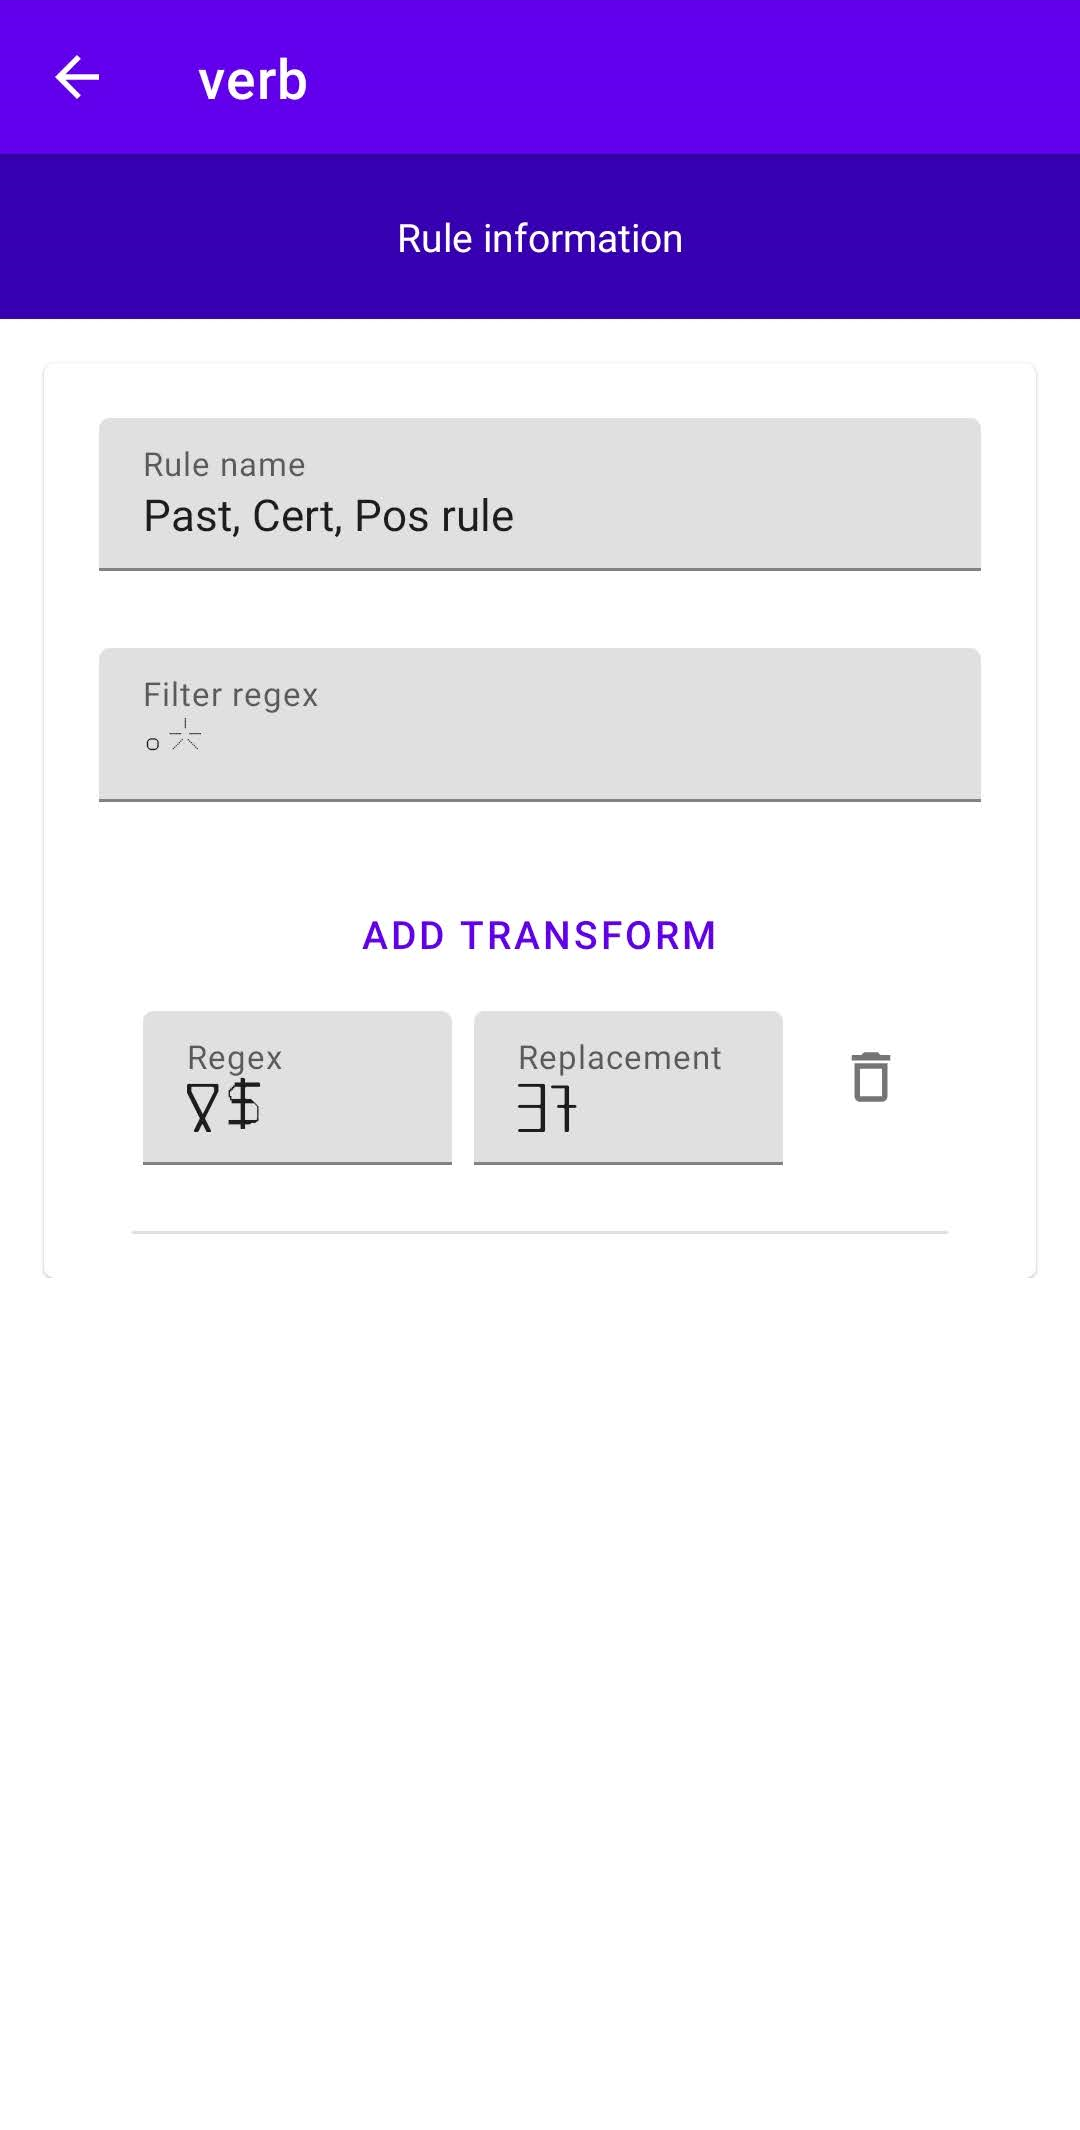
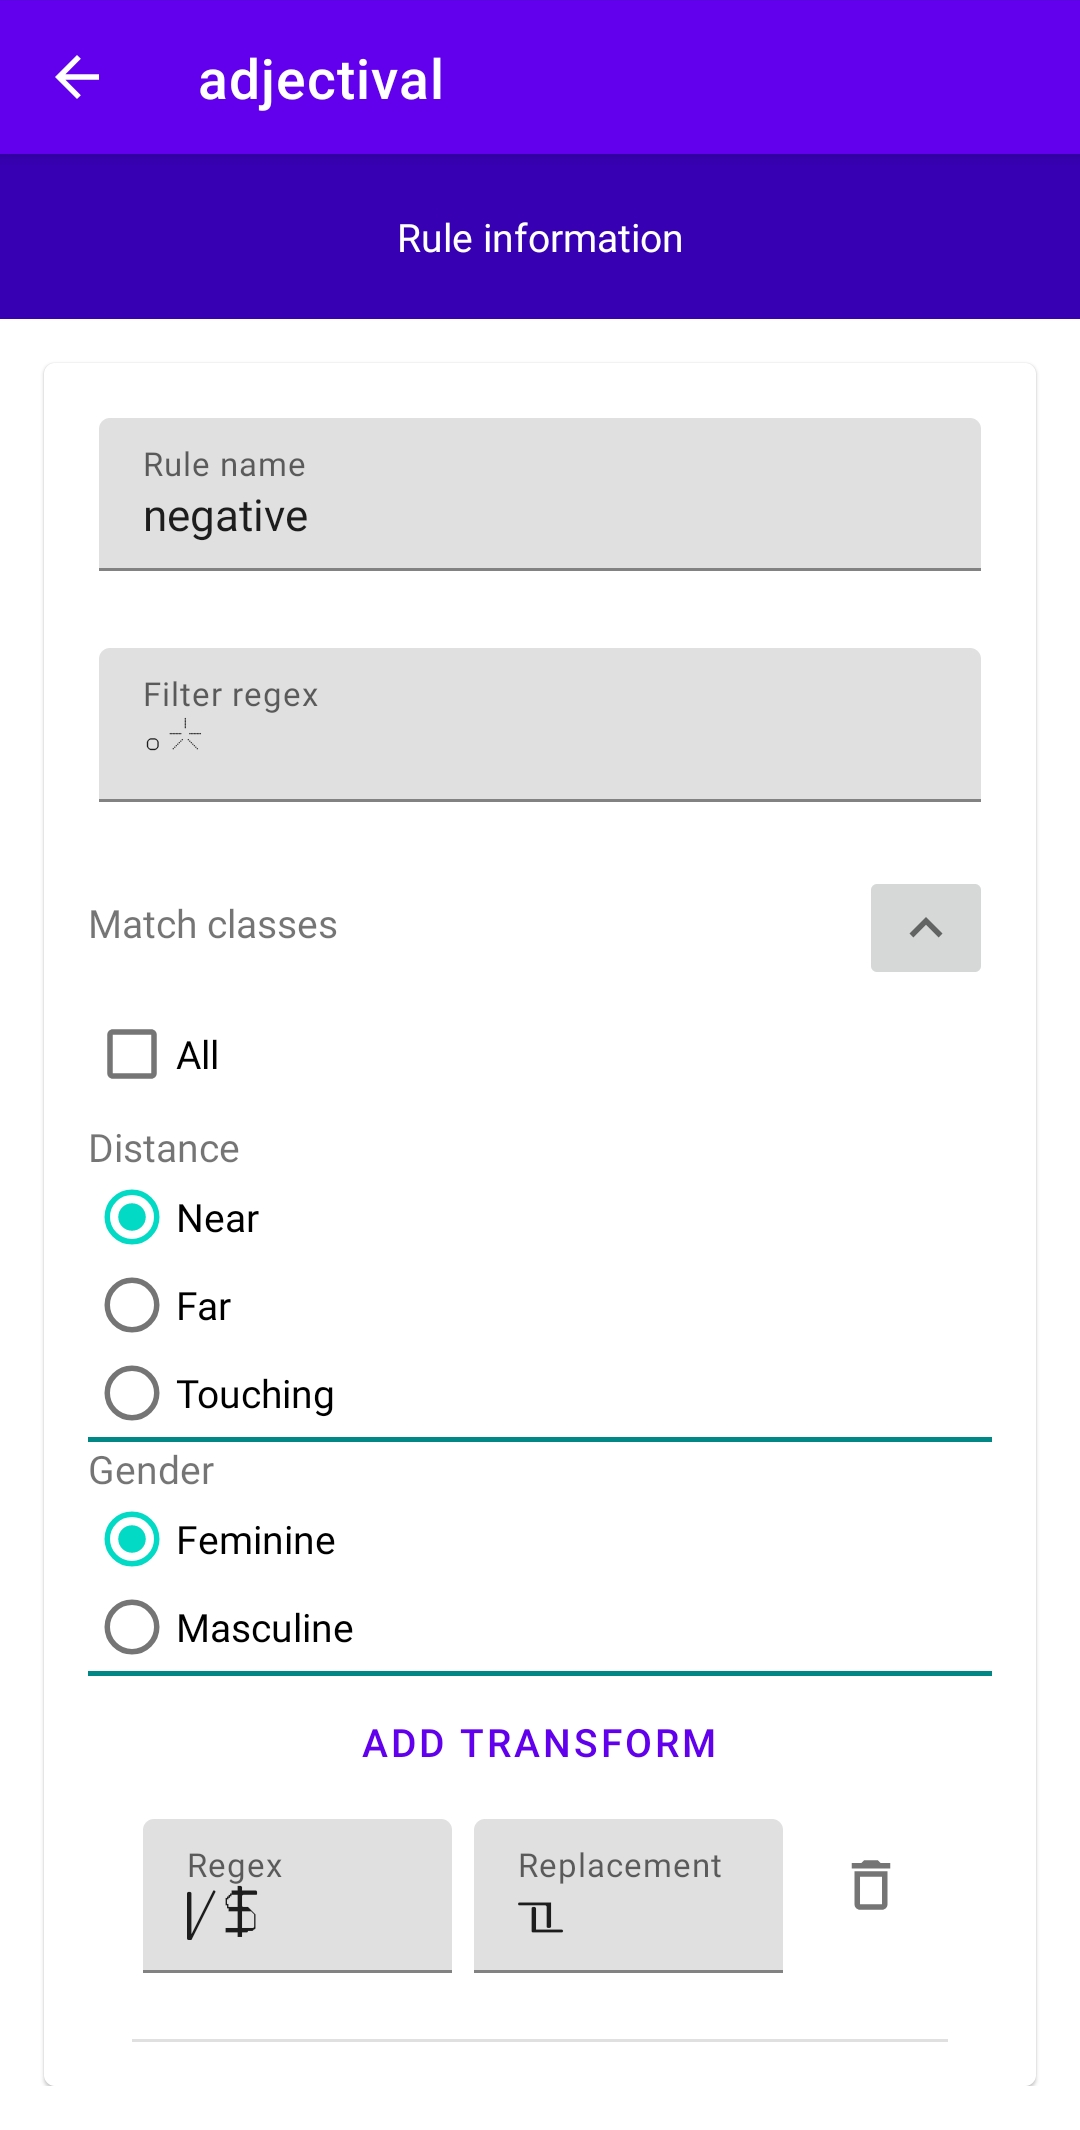
Update auto-gen docs for classes

diff --git a/docs/android/inflection-auto-generation.md b/docs/android/inflection-auto-generation.md
@@ -17,14 +17,18 @@ From a [PoS info screen](pos.md#pos-info-screen), click the 3 dots in the top ri
 ## Testing the auto-generation    
 
 You can access the [lexeme utility](lexeme-utilities.md#conjugation) after setting up a lexeme with for this PoS.  
-Or you can quickly test any string in the "Text wordform" screen.  
+Or you can quickly test any value in the "Text wordform" screen.  
 
 <p align="center">  
 	<img src="../../img/autogen_test.png" alt="Auto-generation test" width="250"/>  
 </p>  
 
 - **Base test word**  
-	Any string to test the selected wordform.  
+	Any value to test the selected wordform.  
+
+- **Match classes**  
+	List of all [Noun classes](classes.md) with [default behavior](classes.md#normal-class) that apply to this PoS.  
+	The selected classes will be applied to the test word to filter the rules.  
 
 - **Test wordform**  
 	When you click the button, PolyGlot runs the auto-generation as normal, checking if the rule's filters apply and then running the transformations.  
@@ -59,6 +63,12 @@ The list of rules will show up below this button, to remove a rule you can click
 - **Filter regex**  
 	A regex used to filter which lexemes will use this rule.  
 	If the word matches the regex, then each transform will be applied.  
+
+- **Match classes**  
+	List of classes that this rule can apply to (only classes with default behavior are listed).  
+	If the word does not match all the classes selected the rule will not be applied.  
+	If a value is not selected for a given class, all values will apply.  
+	If 'All' is selected the rule will apply to all words of this PoS regardless of the value of the classes.  
 
 - **Transforms**  
 	List of transforms this rule makes to a lexeme.  
